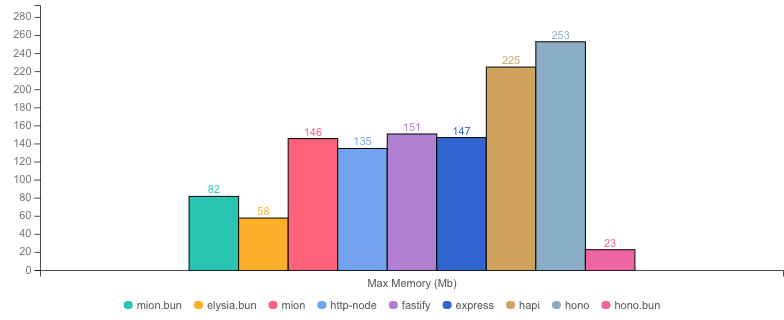
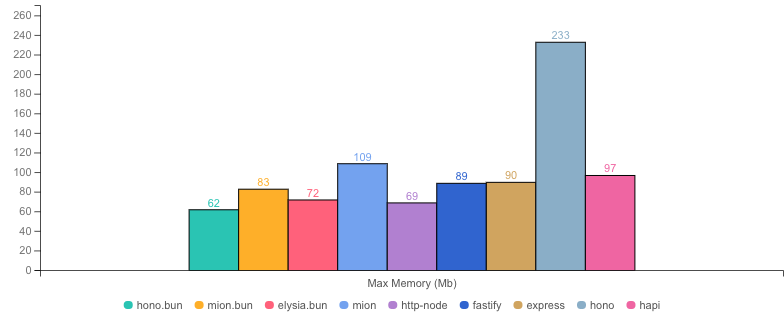
more benhcmarks improvements

diff --git a/_compiled-apps/apps/src/elysiaAppBun.js b/_compiled-apps/apps/src/elysiaAppBun.js
@@ -1,12 +1,7 @@
 "use strict";
 Object.defineProperty(exports, Symbol.toStringTag, { value: "Module" });
 const elysia = require("elysia");
-function __assignType(fn, args) {
-  fn.__type = args;
-  return fn;
-}
-const __ΩUser = ["id", "name", "surname", "lastUpdate", "User", `P'4!&4"&4#T4$Mw%y`];
-const DateString = elysia.t.Transform(elysia.t.String({ format: "date-time" })).Decode(__assignType((value) => new Date(value), ["value", "", 'P"2!"/"'])).Encode(__assignType((value) => value.toISOString(), ["value", "", 'P"2!"/"']));
+const DateString = elysia.t.Transform(elysia.t.String({ format: "date-time" })).Decode((value) => new Date(value)).Encode((value) => value.toISOString());
 const UserSchema = elysia.t.Object({
   id: elysia.t.Number(),
   name: elysia.t.String(),
@@ -14,23 +9,24 @@ const UserSchema = elysia.t.Object({
   lastUpdate: DateString
 });
 const createApp = () => {
-  return new elysia.Elysia().get("/hello", () => ({ hello: "world" })).post("/updateUser", __assignType(({ body }) => {
-    const user = body;
-    user.lastUpdate.setMonth(user.lastUpdate.getMonth() + 1);
-    return user;
-  }, ["param0", "", 'P"2!"/"']), { body: UserSchema });
+  return new elysia.Elysia().get("/hello", () => ({ hello: "world" })).post(
+    "/updateUser",
+    ({ body }) => {
+      const user = body;
+      user.lastUpdate.setMonth(user.lastUpdate.getMonth() + 1);
+      return user;
+    },
+    { body: UserSchema }
+  );
 };
-const __ΩBunServerOptions = ["port", "BunServerOptions", `P'4!8Mw"y`];
-const initHttpBun = __assignType((options = {}) => {
+const initHttpBun = (options = {}) => {
   const port = options.port ?? 3e3;
   const app = createApp().listen(port);
   console.log(`Elysia server running on port ${port}`);
   return app;
-}, [() => __ΩBunServerOptions, "options", () => ({}), "", 'Pn!2">#"/$']);
+};
 if (void 0) {
   initHttpBun({ port: 3e3 });
 }
-exports.__ΩBunServerOptions = __ΩBunServerOptions;
-exports.__ΩUser = __ΩUser;
 exports.initHttpBun = initHttpBun;
 //# sourceMappingURL=elysiaAppBun.js.map

diff --git a/_compiled-apps/apps/src/honoAppBun.js b/_compiled-apps/apps/src/honoAppBun.js
@@ -2,10 +2,6 @@
 Object.defineProperty(exports, Symbol.toStringTag, { value: "Module" });
 const hono = require("hono");
 const zod = require("zod");
-function __assignType(fn, args) {
-  fn.__type = args;
-  return fn;
-}
 const UserSchema = zod.z.object({
   id: zod.z.number(),
   name: zod.z.string(),
@@ -14,27 +10,25 @@ const UserSchema = zod.z.object({
   // Automatically converts ISO string to Date
 }).strict();
 const app = new hono.Hono();
-app.get("/hello", __assignType((c) => {
+app.get("/hello", (c) => {
   return c.json({ hello: "world" });
-}, ["c", "", 'P"2!"/"']));
-app.post("/updateUser", __assignType(async (c) => {
+});
+app.post("/updateUser", async (c) => {
   const rawUser = await c.req.json();
   const user = UserSchema.parse(rawUser);
   user.lastUpdate.setMonth(user.lastUpdate.getMonth() + 1);
   return c.json(user);
-}, ["c", "", 'P"2!"/"']));
-const __ΩBunServerOptions = ["port", "BunServerOptions", `P'4!8Mw"y`];
-const initHttpBun = __assignType((options = {}) => {
+});
+const initHttpBun = (options = {}) => {
   const port = options.port ?? 3e3;
   return Bun.serve({
     port,
     fetch: app.fetch
   });
-}, [() => __ΩBunServerOptions, "options", () => ({}), "", 'Pn!2">#"/$']);
+};
 if (void 0) {
   initHttpBun({ port: 3e3 });
   console.log("Hono Bun server running on port 3000");
 }
-exports.__ΩBunServerOptions = __ΩBunServerOptions;
 exports.initHttpBun = initHttpBun;
 //# sourceMappingURL=honoAppBun.js.map

diff --git a/lib/autocannon.js b/lib/autocannon.js
@@ -66,6 +66,19 @@ const run = (opts = {}, handler) =>
           },
         },
       ];
+    } else {
+      // Hello world benchmark - use explicit requests configuration for consistency
+      opts.requests = [
+        {
+          method: "GET",
+          setupRequest: (req, context) => {
+            req.headers = {
+              accept: "*/*",
+            };
+            return req;
+          },
+        },
+      ];
     }
 
     const memCheck = setInterval(() => {

diff --git a/vite.config.ts b/vite.config.ts
@@ -47,6 +47,9 @@ export default defineConfig({
       compilerOptions: {
         sourceMap: true,
       },
+      // Exclude hono and elysia apps from deepkit type metadata emission
+      // These frameworks don't need runtime type metadata and the __assignType wrappers add overhead
+      exclude: "**/{honoAppBun,elysiaAppBun}.ts",
     }),
     dts({
       outDir: "_compiled-apps",

diff --git a/README.md b/README.md
@@ -89,39 +89,49 @@ Our goal is to perform similar to fastify as it is the industry standard in term
 
 ## Benchmark Results
 
-- **Machine:** darwin x64 | 8 vCPUs | 16.0GB Mem
-- **Node:** `v24.13.0`
-- **Run:** Mon Feb 02 2026 18:01:17 GMT+0000 (Greenwich Mean Time)
-- **Method:** `autocannon -c 100 -d 40.26 -p 10 localhost:3000` (two rounds; one to warm-up, one to measure)
+* __Machine:__ darwin x64 | 8 vCPUs | 16.0GB Mem
+* __Node:__ `v24.13.0`
+* __Run:__ Mon Feb 02 2026 19:46:13 GMT+0000 (Greenwich Mean Time)
+* __Method:__ `autocannon -c 100 -d 4.09 -p 10 localhost:3000` (two rounds; one to warm-up, one to measure)
 
-#### Req (R/s)
+#### Req (R/s) 
 
 ![benchmarks](assets/public/charts-servers/requests.png)
 
-#### Throughput (Mb/s)
+
+
+#### Throughput (Mb/s) 
 
 ![benchmarks](assets/public/charts-servers/throughput.png)
 
-#### Latency (ms)
+
+
+#### Latency (ms) 
 
 ![benchmarks](assets/public/charts-servers/latency.png)
 
-#### Max Memory (Mb)
+
+
+#### Max Memory (Mb) 
 
 ![benchmarks](assets/public/charts-servers/maxMem.png)
 
-#### Memory Series (MB)
+
+
+#### Memory Series (MB) 
 
 ![benchmarks](assets/public/charts-servers/memSeries.png)
 
-|              |   Version | Router |  Req (R/s)  | Latency (ms) | Output (Mb/s) | Max Memory (Mb) | Max Cpu (%) | Validation | Description                                                |
-| :----------- | --------: | -----: | :---------: | -----------: | ------------: | --------------: | ----------: | :--------: | :--------------------------------------------------------- |
-| **mion.bun** | **0.6.2** |  **✓** | **26494.0** |    **37.45** |      **3.59** |          **82** |     **110** |   **✓**    | **mion using bun, automatic validation and serialization** |
-| elysia.bun   |     0.7.5 |      ✓ |   25378.4   |        39.74 |          8.69 |              58 |         110 |     ✓      | bun FrameWork with validation using TypeBox                |
-| **mion**     | **0.6.2** |  **✓** | **17125.9** |    **57.85** |      **3.09** |         **146** |     **120** |   **✓**    | **Automatic validation and serialization out of the box**  |
-| http-node    |   16.18.0 |      ✗ |   16977.9   |        58.36 |          4.29 |             135 |         124 |     ✓      | bare node http server with Zod validation                  |
-| fastify      |    4.10.2 |      ✓ |   15369.6   |        64.51 |          3.90 |             151 |         119 |     ✓      | Fastify with Zod validation                                |
-| express      |    4.22.1 |      ✓ |   10573.0   |        93.96 |          2.67 |             147 |         112 |     ✓      | Express with Zod validation                                |
-| hapi         |    21.4.4 |      ✓ |   9389.4    |       105.87 |          2.37 |             225 |         117 |     ✓      | Hapi with Zod validation                                   |
-| hono         |    3.12.6 |      ✓ |   9200.6    |       108.06 |          2.32 |             253 |         119 |     ✓      | hono node server with Zod validation                       |
-| hono.bun     |    3.12.6 |      ✓ |     N/A     |          N/A |           N/A |              23 |         106 |     ✓      | hono bun server with Zod validation                        |
+
+
+|              | Version   | Router | Req (R/s)   | Latency (ms) | Output (Mb/s) | Max Memory (Mb) | Max Cpu (%) | Validation | Description                                                |
+| :--          | --:       | --:    | :-:         | --:          | --:           | --:             | --:         | :-:        | :--                                                        |
+| hono.bun     | 3.12.6    | ✓      | 25660.0     | 38.98        | 5.33          | 62              | 107         | ✓          | hono bun server with Zod validation                        |
+| **mion.bun** | **0.6.2** | **✓**  | **23920.0** | **41.86**    | **3.24**      | **83**          | **104**     | **✓**      | **mion using bun, automatic validation and serialization** |
+| elysia.bun   | 1.0.0     | ✓      | 21264.0     | 46.09        | 4.11          | 72              | 103         | ✓          | Elysia framework with TypeBox validation                   |
+| **mion**     | **0.6.2** | **✓**  | **14864.0** | **66.35**    | **2.68**      | **109**         | **119**     | **✓**      | **Automatic validation and serialization out of the box**  |
+| http-node    | 16.18.0   | ✗      | 13740.0     | 71.98        | 3.47          | 69              | 115         | ✓          | bare node http server with Zod validation                  |
+| fastify      | 4.10.2    | ✓      | 12604.0     | 78.26        | 3.20          | 89              | 122         | ✓          | Fastify with Zod validation                                |
+| express      | 4.22.1    | ✓      | 8487.5      | 98.66        | 2.14          | 90              | 112         | ✓          | Express with Zod validation                                |
+| hono         | 3.12.6    | ✓      | 7311.0      | 106.58       | 1.85          | 233             | 135         | ✓          | hono node server with Zod validation                       |
+| hapi         | 21.4.4    | ✓      | 7076.0      | 105.94       | 1.79          | 97              | 138         | ✓          | Hapi with Zod validation                                   |

diff --git a/HELLO-WORLD.md b/HELLO-WORLD.md
@@ -39,8 +39,8 @@ app.get("/hello", function (req, res) {
 
 * __Machine:__ darwin x64 | 8 vCPUs | 16.0GB Mem
 * __Node:__ `v24.13.0`
-* __Run:__ Mon Feb 02 2026 18:10:41 GMT+0000 (Greenwich Mean Time)
-* __Method:__ `autocannon -c 100 -d 40.01 -p 10 localhost:3000` (two rounds; one to warm-up, one to measure)
+* __Run:__ Mon Feb 02 2026 19:48:33 GMT+0000 (Greenwich Mean Time)
+* __Method:__ `autocannon -c 100 -d 4.01 -p 10 localhost:3000` (two rounds; one to warm-up, one to measure)
 
 #### Req (R/s) 
 
@@ -74,12 +74,12 @@ app.get("/hello", function (req, res) {
 
 |              | Version   | Router | Req (R/s)   | Latency (ms) | Output (Mb/s) | Max Memory (Mb) | Max Cpu (%) | Validation | Description                                                |
 | :--          | --:       | --:    | :-:         | --:          | --:           | --:             | --:         | :-:        | :--                                                        |
-| http-node    | 16.18.0   | ✗      | 40033.6     | 24.49        | 7.14          | 135             | 122         | ✓          | bare node http server with Zod validation                  |
-| fastify      | 4.10.2    | ✓      | 38732.8     | 25.33        | 6.95          | 141             | 121         | ✓          | Fastify with Zod validation                                |
-| **mion**     | **0.6.2** | **✓**  | **36230.4** | **27.10**    | **6.53**      | **218**         | **117**     | **✓**      | **Automatic validation and serialization out of the box**  |
-| hono         | 3.12.6    | ✓      | 30116.8     | 32.70        | 5.37          | 221             | 119         | ✓          | hono node server with Zod validation                       |
-| hapi         | 21.4.4    | ✓      | 28455.6     | 34.63        | 5.07          | 239             | 124         | ✓          | Hapi with Zod validation                                   |
-| express      | 4.22.1    | ✓      | 21273.6     | 46.48        | 3.79          | 149             | 117         | ✓          | Express with Zod validation                                |
-| hono.bun     | 3.12.6    | ✓      | 15730.2     | 63.03        | 2.10          | 52              | 103         | ✓          | hono bun server with Zod validation                        |
-| **mion.bun** | **0.6.2** | **✓**  | **11961.4** | **83.02**    | **1.62**      | **78**          | **103**     | **✓**      | **mion using bun, automatic validation and serialization** |
-| elysia.bun   | 0.7.5     | ✓      | 8072.0      | 123.21       | 2.16          | 43              | 102         | ✓          | bun FrameWork with validation using TypeBox                |
+| http-node    | 16.18.0   | ✗      | 35544.0     | 27.57        | 6.34          | 75              | 121         | ✓          | bare node http server with Zod validation                  |
+| **mion**     | **0.6.2** | **✓**  | **28888.0** | **34.00**    | **5.21**      | **108**         | **106**     | **✓**      | **Automatic validation and serialization out of the box**  |
+| fastify      | 4.10.2    | ✓      | 24660.0     | 40.25        | 4.42          | 106             | 119         | ✓          | Fastify with Zod validation                                |
+| hono         | 3.12.6    | ✓      | 24452.0     | 40.20        | 4.36          | 164             | 109         | ✓          | hono node server with Zod validation                       |
+| elysia.bun   | 1.0.0     | ✓      | 15480.0     | 63.67        | 1.85          | 43              | 97          | ✓          | Elysia framework with TypeBox validation                   |
+| hono.bun     | 3.12.6    | ✓      | 12956.0     | 75.96        | 1.73          | 47              | 95          | ✓          | hono bun server with Zod validation                        |
+| express      | 4.22.1    | ✓      | 12098.0     | 81.42        | 2.16          | 106             | 113         | ✓          | Express with Zod validation                                |
+| **mion.bun** | **0.6.2** | **✓**  | **11068.0** | **88.94**    | **1.50**      | **81**          | **99**      | **✓**      | **mion using bun, automatic validation and serialization** |
+| hapi         | 21.4.4    | ✓      | 9580.5      | 103.55       | 1.71          | 111             | 87          | ✓          | Hapi with Zod validation                                   |
